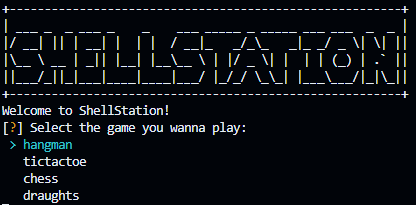
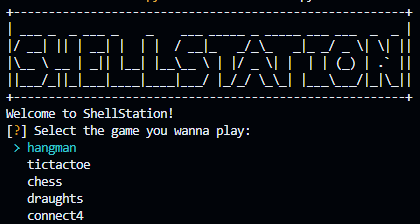
update README.md

Changed region(s): [[0.0, 0.0, 1.0, 0.9951], [0.9688, 0.0878, 1.0, 0.1463], [0.0, 0.9951, 0.0312, 1.0]]

diff --git a/README.md b/README.md
@@ -2,18 +2,9 @@
 
 ShellStation is a command-line game suite. It allows users to select and play games through an interactive menu or directly via command-line arguments.
 
-## Preview
+## Previews
 ![shellstation menu](img/menu.png)
-<div style="display:flex; gap:10px; flex-wrap:wrap;">
-  <div style="display:flex; flex-direction:column;">
-    <p style="text-align:center;"><b>CHESS</b></p>
-    <img src="img/chess.png" />
-  </div>
-  <div style="display:flex; flex-direction:column;">
-    <p style="text-align:center;"><b>DRAUGHTS</b></p>
-    <img src="img/draughts.png" />
-  </div>
-</div>
+![chess](img/chess.png) ![draughts](img/draughts.png) ![tictactoe](img/tictactoe.png) ![connect four](img/connect4.png) ![hangman](img/hangman.png)
 
 ## Features
 
@@ -29,30 +20,37 @@ Before running ShellStation, ensure you have Python installed on your system. Th
 
 1. Clone the repository:
     ```bash
-      git clone https://github.com/kelvinleandro/shellstation
-      cd shellstation
+    git clone https://github.com/kelvinleandro/shellstation
     ```
 
-2. No additional libraries are required to run the basic version of the games as they use standard Python libraries.
+2. Change to the project directory:
+    ```bash
+    cd shellstation
+    ```
+
+3. Install the required libraries:
+    ```bash
+    pip install -r requirements.txt
+    ```
 
 ## Usage
 
 To start ShellStation in interactive mode:
 
 ```bash
-  python shellstation.py
+python shellstation.py
 ```
 
 To directly start a specific game:
 
 ```bash
-  python shellstation.py -g chess
+python shellstation.py -g chess
 ```
 
 The game will ask you to specify a host and port. For example, you can enter:
 
 ```bash
-  localhost 9999
+localhost 9999
 ```
 
 ### Available commands
@@ -68,13 +66,13 @@ To run the automated matches:
 1. Ensure you have `pyautogui` installed:
 
 ```bash
-  pip install pyautogui
+pip install pyautogui
 ```
 
 2. Run the file, e.g.:
 
 ```bash
-  python test/chess_test.py
+python test/chess_test.py
 ```
 
 ## License
